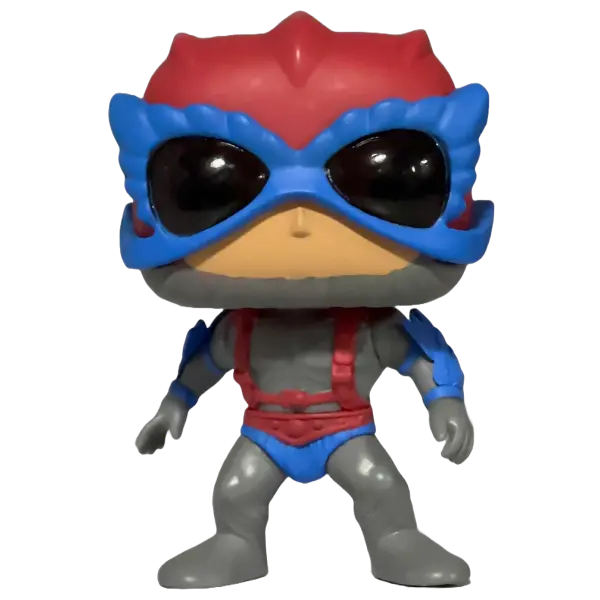
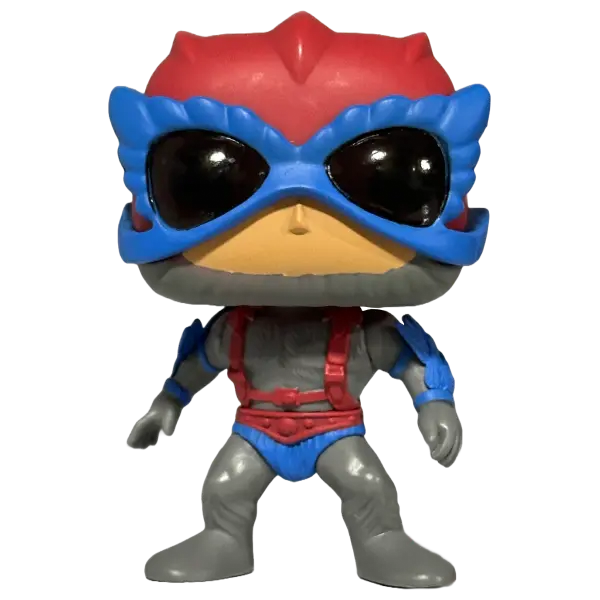
adding new Funkos and other small fixes

diff --git a/scare-mare.html b/scare-mare.html
@@ -8,14 +8,14 @@
         <link rel="icon" type="image/png" sizes="32x32" href="images/favicon-32x32.png">
         <link rel="icon" type="image/png" sizes="16x16" href="images/favicon-16x16.png">
         <link rel="icon" href="images/spirit.svg" type="image/svg+xml">
-        <title>Night Stalker - MOTU Collection</title>
+        <title>Scare Mare - MOTU Collection</title>
         <script src="https://code.jquery.com/jquery-3.6.0.slim.min.js" integrity="sha256-u7e5khyithlIdTpu22PHhENmPcRdFiHRjhAuHcs05RI=" crossorigin="anonymous"></script>
         <link href="css/styles.css?4" rel="stylesheet">
         <style type="text/css">
             /* variables */
             :root {
-                --figure-primary-color:#35103E;
-                --figure-secondary-color:#856490;
+                --figure-primary-color:#4E8A29;
+                --figure-secondary-color:#9AE968;
             }
         </style>
     </head>
@@ -28,12 +28,12 @@
             </nav>
             <section>
                 <p class="affiliation">The Evil Enemies</p>
-                <h1>Night Stalker</h1>
-                <p class="lead">Evil armored battle steed!</p>
+                <h1>Scare Mare</h1>
+                <p class="lead">Evil steed of Scare Glow</p>
                 <ul class="collection">
                     <li class="item active animated fadeInUp">
-                        <p><span class="brand">Funko</span>POP!</p>
-                        <p class="pop">278</p>
+                        <p><span class="brand">Funko</span>Fusion POP!</p>
+                        <p class="pop">999</p>
                     </li>
                 </ul>
             </section>
@@ -41,10 +41,10 @@
                 <ul class="tabs-content">
                     <li>
                         <img
-                            srcset="images/night-stalker-funko-pop@2x.webp 2x"
-                            src="images/night-stalker-funko-pop.webp"
+                            srcset="images/scare-mare-funko-pop@2x.webp 2x"
+                            src="images/scare-mare-funko-pop.webp"
                             class="img-responsive"
-                            alt="Funko POP Night Stalker figure" />
+                            alt="Funko Fusion POP Scare Mare figure" />
                     </li>
                 </ul>
             </aside>

diff --git a/rides.html b/rides.html
@@ -8,14 +8,14 @@
         <link rel="icon" type="image/png" sizes="32x32" href="images/favicon-32x32.png">
         <link rel="icon" type="image/png" sizes="16x16" href="images/favicon-16x16.png">
         <link rel="icon" href="images/spirit.svg" type="image/svg+xml">
-        <title>Vehicles - MOTU Collection</title>
+        <title>rides - MOTU Collection</title>
         <script src="https://code.jquery.com/jquery-1.12.4.min.js" integrity="sha256-ZosEbRLbNQzLpnKIkEdrPv7lOy9C27hHQ+Xp8a4MxAQ=" crossorigin="anonymous"></script>
         <link href="css/styles.css?13" rel="stylesheet">
     </head>
     <body class="rock">
         <header>
             <div><a href="index.html">Figures</a></div>
-            <div><a href="vehicles.html">Vehicles</a></div>
+            <div><a href="rides.html" class="active">Rides</a></div>
             <a href="index.html"><img src="images/motu-logo.webp" class="img-responsive" alt="Classic Masters of the Universe logo" /></a>
             <div><a href="playsets.html">Playsets</a></div>
             <div><a href="accessories.html">Accessories</a></div>
@@ -38,6 +38,19 @@
                         </div>
                         <div class="name">
                             Night Stalker<span>Armored Battle Steed</span>
+                        </div>
+                    </a>
+                    <a class="figure" href="scare-mare.html">
+                        <div class="image">
+                            <img
+                            srcset="images/scare-mare-funko-pop-small@2x.webp 2x"
+                            src="images/scare-mare-funko-pop-small.webp"
+                            class="img-responsive"
+                            alt="Funko POP Scare Mare figure" />
+                            <div class="square"></div>
+                        </div>
+                        <div class="name">
+                            Scare Mare<span>Evil Steed of Scare Glow</span>
                         </div>
                     </a>
                 </div>

diff --git a/battle-armor-skeletor.html b/battle-armor-skeletor.html
@@ -35,6 +35,9 @@
                         <p><span class="brand">Funko</span>POP!</p>
                         <p class="pop">563</p>
                     </li>
+                    <li class="item animated fadeInUp" style="animation-delay: .25s;">
+                        <p><span class="brand">Mattel</span>Masterverse</p>
+                    </li>
                 </ul>
             </section>
             <aside>
@@ -45,6 +48,13 @@
                             src="images/battle-armor-skeletor-funko-pop.webp"
                             class="img-responsive"
                             alt="Funko POP Battle Armor Skeletor figure" />
+                    </li>
+                    <li>
+                        <img
+                            srcset="images/battle-armor-skeletor-masterverse@2x.webp 2x"
+                            src="images/battle-armor-skeletor-masterverse.webp"
+                            class="img-responsive"
+                            alt="Masterverse Battle Armor Skeletor figure" />
                     </li>
                 </ul>
             </aside>

diff --git a/skeletor.html b/skeletor.html
@@ -43,6 +43,10 @@
                         <p><span class="brand">Funko</span>Mega POP!</p>
                         <p class="pop">998</p>
                     </li>
+                    <li class="item animated fadeInUp" style="animation-delay: .45s;">
+                        <p><span class="brand">Funko</span>POP! Meme</p>
+                        <p class="pop">1643</p>
+                    </li>
                 </ul>
             </section>
             <aside>
@@ -67,6 +71,13 @@
                             src="images/skeletor-funko-mega-pop.webp"
                             class="img-responsive"
                             alt="Funko Mega POP Skeletor figure" />
+                    </li>
+                    <li>
+                        <img
+                            srcset="images/skeletor-funko-meme@2x.webp 2x"
+                            src="images/skeletor-funko-meme.webp"
+                            class="img-responsive"
+                            alt="Funko POP! Meme Skeletor figure" />
                     </li>
                 </ul>
             </aside>

diff --git a/he-man.html b/he-man.html
@@ -35,6 +35,10 @@
                         <p><span class="brand">Funko</span>POP!</p>
                         <p class="pop">991</p>
                     </li>
+                    <li class="item animated fadeInUp" style="animation-delay: .25s;">
+                        <p><span class="brand">Funko</span>Fusion POP!</p>
+                        <p class="pop">1006</p>
+                    </li>
                 </ul>
             </section>
             <aside>
@@ -45,6 +49,13 @@
                             src="images/he-man-funko-pop.webp"
                             class="img-responsive"
                             alt="Funko POP He-Man figure" />
+                    </li>
+                    <li>
+                        <img
+                            srcset="images/he-man-funko-fusion@2x.webp 2x"
+                            src="images/he-man-funko-fusion.webp"
+                            class="img-responsive"
+                            alt="Funko Fusion POP He-Man figure" />
                     </li>
                 </ul>
             </aside>

diff --git a/css/styles.css b/css/styles.css
@@ -66,6 +66,20 @@ header a:hover{
     color:#fff;
     transition: all 200ms ease-in;
 }
+header a.active{
+    color:#FDDC04;
+}
+/*
+header a.active::after{
+    content:" ";
+    display: block;
+    height:4px;
+    width:100px;
+    background-color:#FDDC04;
+    position: absolute;
+    bottom:0;
+}
+*/
 main.poster{
     margin-top:100px;
 }
@@ -359,6 +373,30 @@ p{
     z-index: 5;
     filter: drop-shadow(0px 0px 20px rgba(0,0,0,.25));
 }
+
+
+.menu-toggler{
+    left: 10px;
+    top: 10px;
+    opacity: 0;
+    position: absolute;
+}
+.menu-toggler:checked + .show-menu span{
+        background: transparent;
+}
+.menu-toggler:checked + .show-menu:after {
+    top: 9px;
+    transform: rotate(45deg);
+}
+.menu-toggler:checked + .show-menu:before {
+    top: 9px;
+    transform: rotate(-45deg);
+}
+.menu-toggler:checked ~ .nav{
+    display: block;
+    transform: translateX(0);
+}
+
 /* animation */
 .animated {
     -webkit-animation-duration: 1s;

diff --git a/accessories.html b/accessories.html
@@ -15,10 +15,10 @@
     <body class="rock">
         <header>
             <div><a href="index.html">Figures</a></div>
-            <div><a href="vehicles.html">Vehicles</a></div>
+            <div><a href="rides.html">Rides</a></div>
             <a href="index.html"><img src="images/motu-logo.webp" class="img-responsive" alt="Classic Masters of the Universe logo" /></a>
             <div><a href="playsets.html">Playsets</a></div>
-            <div><a href="accessories.html">Accessories</a></div>
+            <div><a href="accessories.html" class="active">Accessories</a></div>
         </header>
         <main class="poster">
             <div class="groups">

diff --git a/playsets.html b/playsets.html
@@ -15,9 +15,9 @@
     <body class="rock">
         <header>
             <div><a href="index.html">Figures</a></div>
-            <div><a href="vehicles.html">Vehicles</a></div>
+            <div><a href="rides.html">Rides</a></div>
             <a href="index.html"><img src="images/motu-logo.webp" class="img-responsive" alt="Classic Masters of the Universe logo" /></a>
-            <div><a href="playsets.html">Playsets</a></div>
+            <div><a href="playsets.html" class="active">Playsets</a></div>
             <div><a href="accessories.html">Accessories</a></div>
         </header>
         <main class="poster">

diff --git a/index.html b/index.html
@@ -14,8 +14,8 @@
     </head>
     <body class="rock">
         <header>
-            <div><a href="index.html">Figures</a></div>
-            <div><a href="vehicles.html">Vehicles</a></div>
+            <div><a href="index.html" class="active">Figures</a></div>
+            <div><a href="rides.html">Rides</a></div>
             <a href="index.html"><img src="images/motu-logo.webp" class="img-responsive" alt="Classic Masters of the Universe logo" /></a>
             <div><a href="playsets.html">Playsets</a></div>
             <div><a href="accessories.html">Accessories</a></div>
